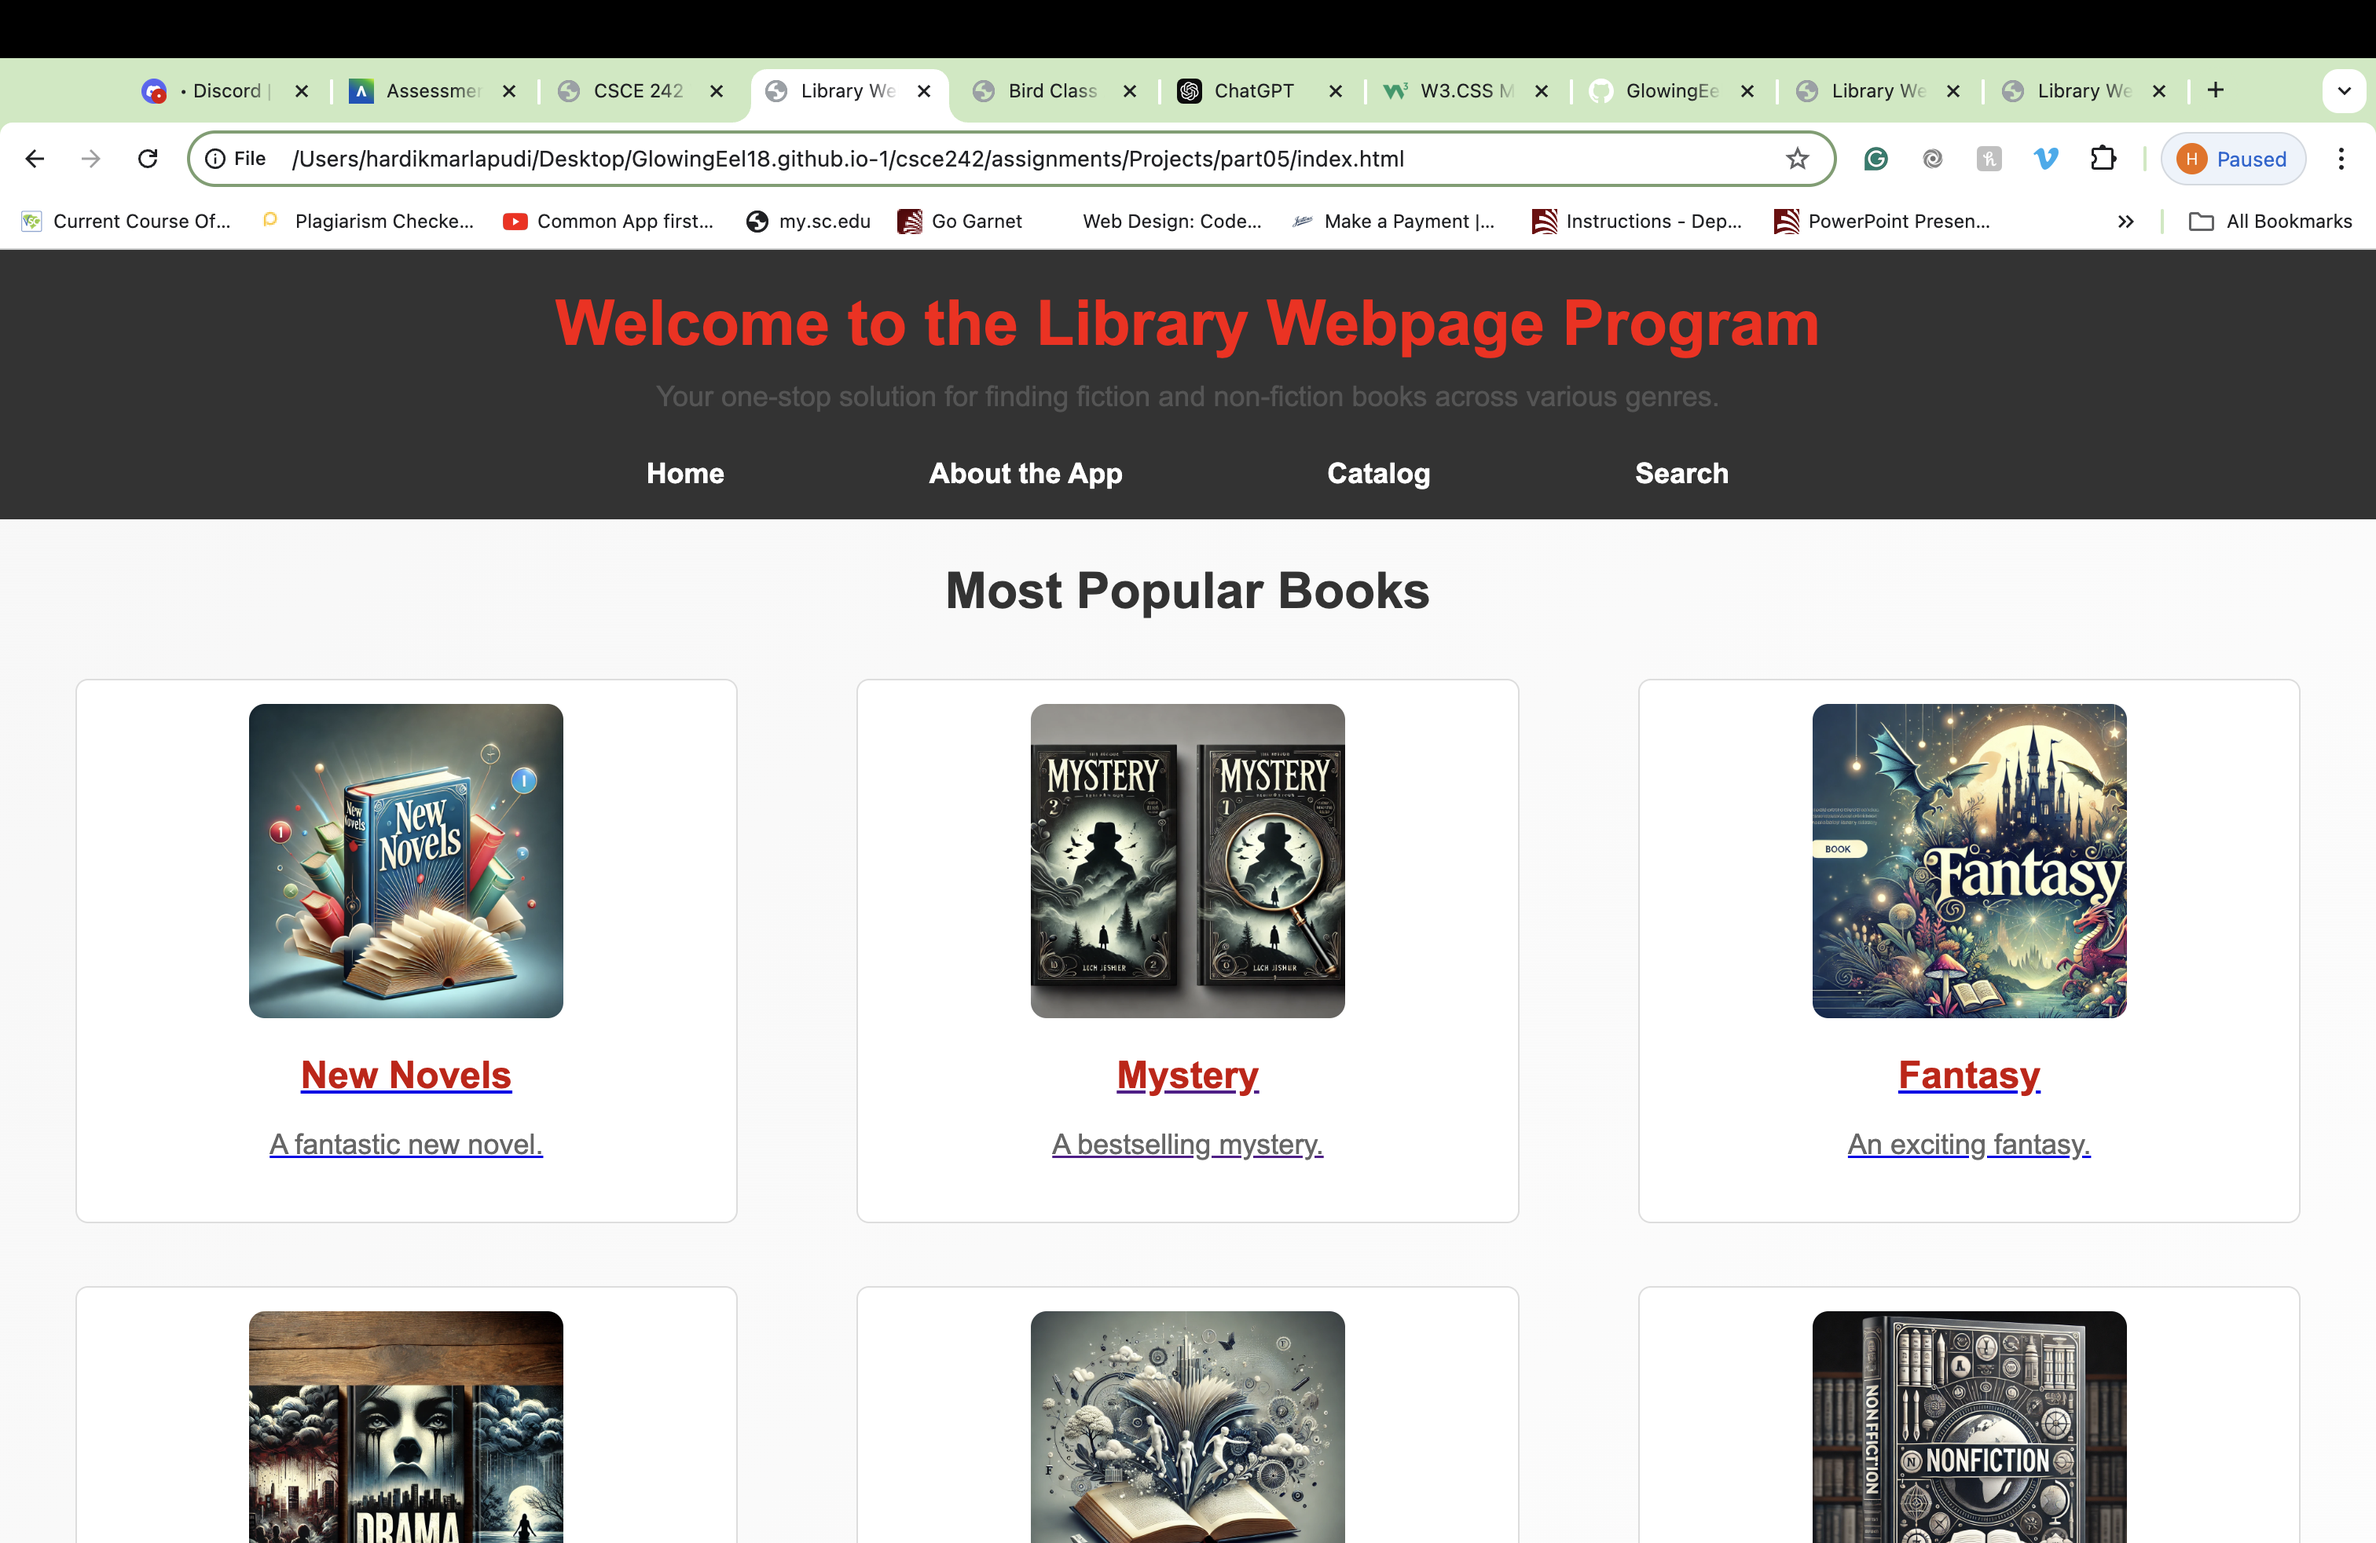
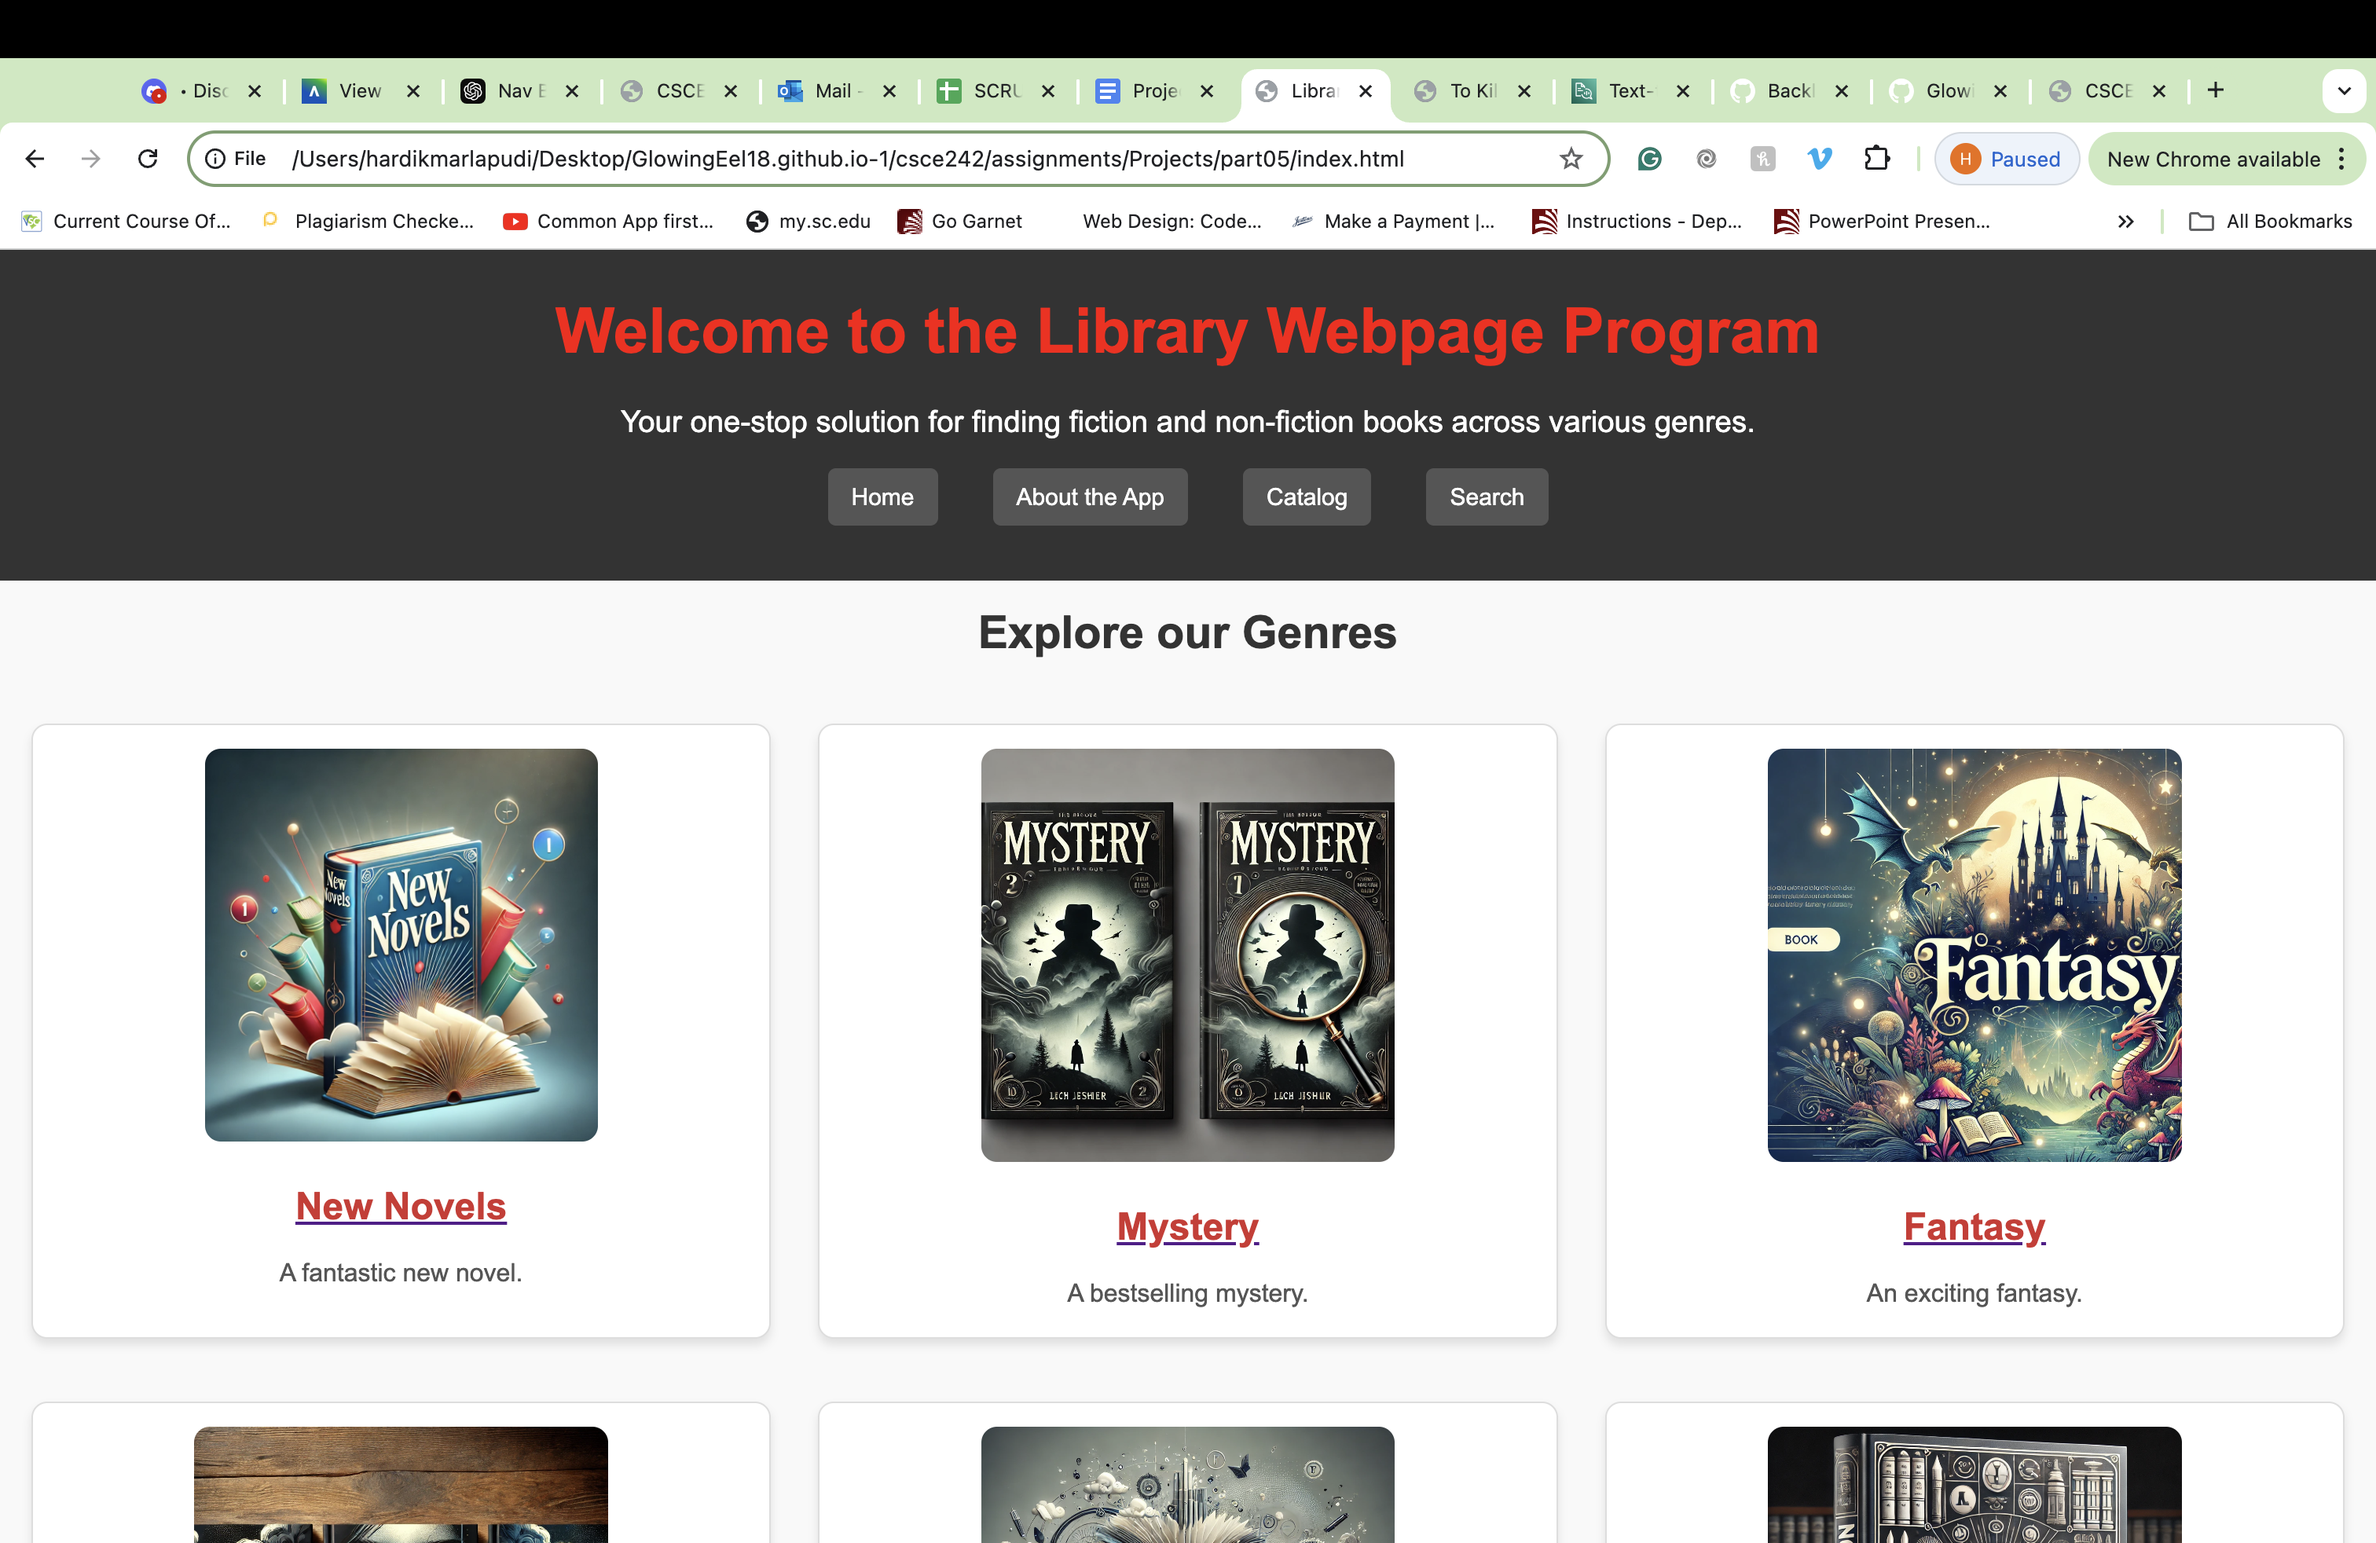
adding changes to 06_MainPageProjectsSection

diff --git a/csce242/assignments/Projects/part05/styles2.css b/csce242/assignments/Projects/part05/styles2.css
@@ -11,14 +11,14 @@ body {
     line-height: 1.6;
     background-color: #f9f9f9;
     color: #333;
-    padding: auto;
+    padding: 0; /* Remove auto padding */
 }
 
 /* Header Styles */
 header {
     background-color: #333;
     color: white;
-    padding: 20px;
+    padding: 20px 0; /* Adjust padding for uniform top and bottom spacing */
     text-align: center;
 }
 
@@ -30,40 +30,37 @@ header h1 {
 
 header p {
     font-size: 1.2em;
+    margin-top: 10px; /* Add margin to space below the paragraph */
 }
 
 /* Navbar Styles */
-
-nav ul li a{
-    color: white;
-    text-decoration: none;
-    font-size: 15px;
-    transition: color 0.3s;
-}
-
-
 .navbar {
     list-style-type: none;
-    text-align: center;
+    display: flex;
+    justify-content: center; /* Center navbar */
+    gap: 15px; /* Add spacing between navbar items */
+    padding: 10px 0;
 }
 
 .navbar li {
-    display: inline-block;
-    margin: 30px;
+    margin: 10px; /* Remove additional margin */
 }
 
 .navbar li a {
     color: white;
     text-decoration: none;
-    background-color: #444;
-    padding: 10px;
+    font-size: 15px;
+    background-color: #555;
+    padding: 10px 15px;
     border-radius: 5px;
+    transition: background-color 0.3s;
 }
 
 .navbar li a:hover {
     background-color: #777;
 }
 
+/* Categories Section */
 .categories {
     padding: 50px 20px;
     background-color: #ffffff;
@@ -92,6 +89,7 @@ nav ul li a{
     flex-wrap: wrap;
     gap: 20px;
     justify-content: space-between;
+    padding: 20px 10px; /* Add padding for spacing */
 }
 
 /* Book Items */
@@ -104,6 +102,7 @@ nav ul li a{
     text-align: center;
     transition: transform 0.3s ease;
     flex-basis: calc(33.33% - 20px); /* 3 items per row on desktop */
+    margin-bottom: 20px; /* Add margin to space between rows */
 }
 
 .book-item:hover {
@@ -111,7 +110,7 @@ nav ul li a{
 }
 
 .book-item img {
-    max-width: 45%;
+    max-width: 60%; /* Increase image size for better display */
     height: auto;
     margin-bottom: 15px;
     border-radius: 10px;
@@ -139,7 +138,7 @@ footer {
 
 /* Responsive Design for Mobile */
 @media (max-width: 768px) {
-    /* Book grid stacks into one column */
+    /* Stack book grid items into one column */
     .book-grid {
         flex-direction: column;
     }
@@ -149,8 +148,11 @@ footer {
         margin-bottom: 20px;
     }
 
+    .navbar {
+        flex-direction: column; /* Stack navbar items vertically */
+    }
+
     .navbar li {
-        display: block; /* Stack navigation links vertically */
         margin-bottom: 10px;
     }
 
@@ -167,6 +169,6 @@ footer {
     }
 
     .book-item img {
-        width: 45%; /* Smaller image size for mobile */
+        width: 70%; /* Slightly larger images for mobile view */
     }
 }

diff --git a/csce242/assignments/06_MainPageProjectsSection/index.html b/csce242/assignments/06_MainPageProjectsSection/index.html
@@ -150,8 +150,10 @@
 
                 <li>
                     <a href="https://glowingeel18.github.io/csce242/assignments/Projects/part05/index.html">Project Part 5: Improve your Website</a>
-                    <img src="Project Part05.jpg" alt="Screenshot of Assignment 5" width="250px" height="300px">
-                    <p>Project Part 4: Colors, Pictures, and Text focuses on enhancing the visual and content elements of the website by integrating appropriate colors, images, and text. In this phase, the color scheme is carefully selected to ensure visual consistency, accessibility, and alignment with the project’s theme or brand. Images are added to make the site more engaging and relevant, while ensuring they are properly optimized for fast loading times. The text content is finalized and placed within the layout, paying attention to readability, font choices, and proper alignment. This phase brings the site to life by combining aesthetic and functional elements, making the website visually appealing and user-friendly while maintaining the projects overall design goals.</p>
+                    <img src="Project part05.jpg" alt="Screenshot of Assignment 5" width="250px" height="300px">
+                    <p>In Project Part 5: Iteration and Improvement, you will focus on addressing feedback provided by your instructor, TA, and classmates to enhance the visual and structural elements of your website. The key tasks for this phase include refining colors, images, and text to align with the design and functional expectations of the project. First, you will adjust the color scheme to ensure consistency and accessibility throughout the site, making sure the colors enhance readability while maintaining a cohesive design that fits the overall theme. Next, you'll add relevant and engaging images that make the website more visually appealing, ensuring that all images are optimized for fast loading without compromising quality. Proper alignment and padding should also be applied to avoid visual clutter.
+
+                        In addition, the text content will be finalized, paying close attention to formatting, alignment, and readability. This includes ensuring that the chosen fonts, text size, and spacing provide a user-friendly reading experience. Any significant issues with text alignment or font inconsistencies should be corrected during this phase. The overall goal of this iteration is to ensure that your website is not only visually appealing but also functional and accessible. Your final version should reflect a professional-quality website that is easy to navigate and aesthetically pleasing.</p>
                 </li>
             </ul>
 

diff --git a/csce242/assignments/Projects/part05/index.html b/csce242/assignments/Projects/part05/index.html
@@ -30,7 +30,7 @@
             <div class="book-grid">
                 <!-- Book 1 -->
                 <div class="book-item" id="book1">
-                    <img src="New Novels.jpg" alt="Fantasy Book" width="200px" height="200px">
+                    <img src="New Novels.jpg" alt="Fantasy Book" width="250px" height="250px">
                     <a href="new-novels.html" target="_blank"><h3>New Novels</h3></a>
                     <p>A fantastic new novel.</p>
                 </div>

diff --git a/csce242/assignments/Projects/part05/new-novels.js b/csce242/assignments/Projects/part05/new-novels.js
@@ -53,7 +53,6 @@ const displayBooks = () => {
                 <img src="${book.imgSrc}" alt="${book.title}">
                 <h3>${book.title}</h3>
                 <p>${book.description}</p>
-                <a href="${book.pdfLink}" class="btn">Read Now</a>
             </div>
         `;
         bookListContainer.innerHTML += bookItem;

diff --git a/csce242/assignments/Projects/part05/styles.css b/csce242/assignments/Projects/part05/styles.css
@@ -128,6 +128,10 @@ footer {
   width: 100%;
 }
 
+footer p {
+  color: white;
+}
+
 /* CSS Styling for the main page */
 /* General Styling */
 
@@ -967,7 +971,7 @@ button:hover {
 /* Footer Styles */
 footer {
   text-align: center;
-  padding: 20px;
+  padding: 10px;
   background-color: #333;
   color: white;
   position: relative;
